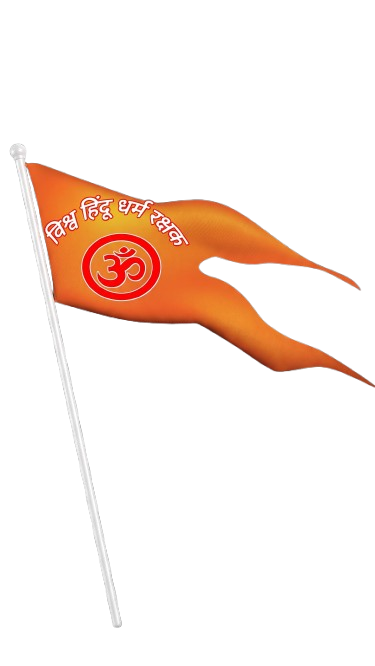
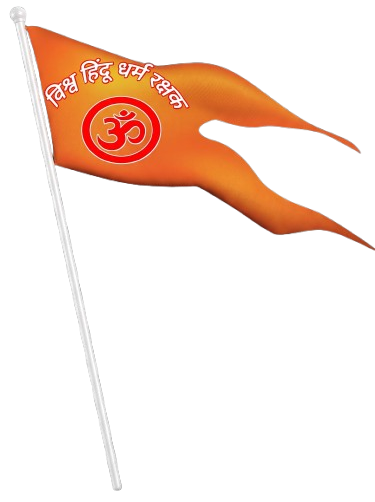
fixes-home flag

Changed region(s): [[0.0293, 0.0, 1.0, 0.8068], [0.264, 0.8665, 0.3227, 0.9861], [0.88, 0.2689, 0.968, 0.2988]]

diff --git a/lib/features/home/widgets/hero_section.dart b/lib/features/home/widgets/hero_section.dart
@@ -143,15 +143,14 @@ class _HeroVisual extends StatelessWidget {
                 .fadeIn(delay: 100.ms, duration: 500.ms)
                 .scale(begin: const Offset(0.8, 0.8), end: const Offset(1, 1)),
           ),
-          Transform.scale(
-              scale: 1.2,
-              child: Positioned(
-                top: 0,
-                child: Image.asset(
-                  "assets/images/flag.png",
-                  // fit: BoxFit.cover,
-                ),
-              )).animate().fadeIn(delay: 200.ms, duration: 500.ms),
+          Positioned(
+            top: 10,
+            child: Image.asset(
+              "assets/images/flag.png",
+              height: 400,
+              // fit: BoxFit.cover,
+            ),
+          )
           // const Icon(Icons.volunteer_activism, size: 140, color: Colors.white)
           //     .animate()
           //     .fadeIn(delay: 200.ms, duration: 500.ms),
